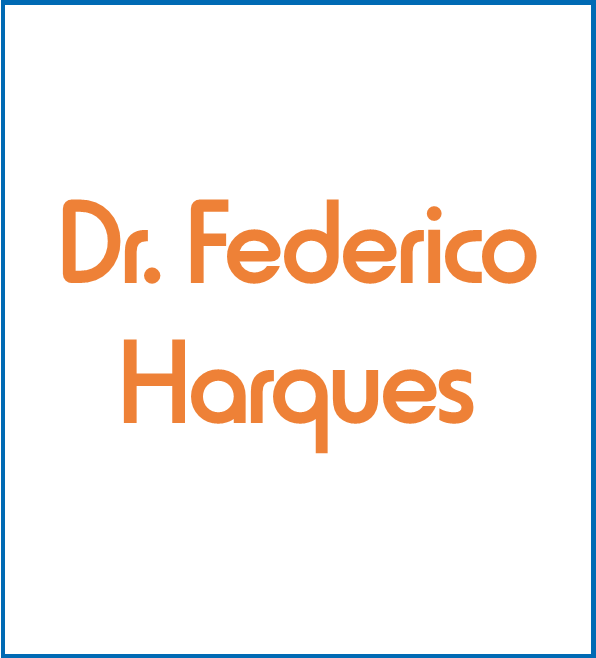
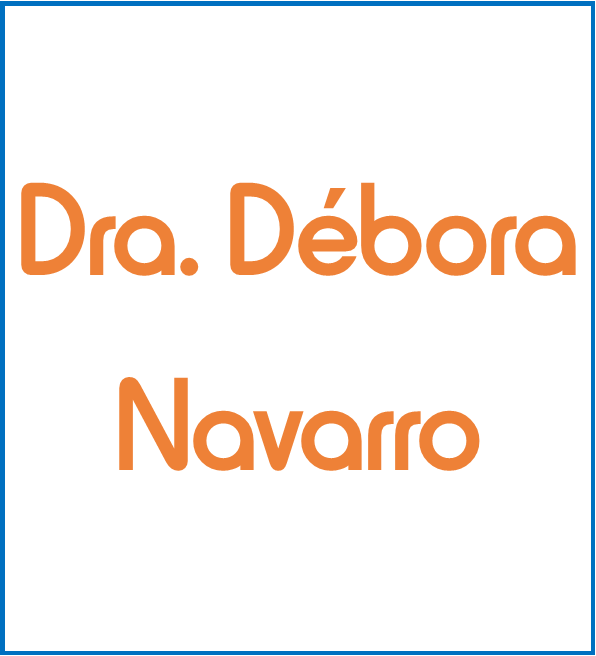
Version 1.3

diff --git a/assets/pages/agendas.html b/assets/pages/agendas.html
@@ -64,7 +64,7 @@
                             <li><a class="dropdown-item"
                                     href="https://docs.google.com/spreadsheets/d/1e_ewLIDzdWNhpK-zfxd9jDhe88WVcHc_/edit#gid=2119395061">Dr.
                                     Diego Rivarola</a></li>
-                            <li><a class="dropdown-item" href="https://docs.google.com/spreadsheets/d/1fyCxyzqEK8so8DjmL1KmKRUP886XDKE-/edit#gid=753543205">Dr. Federico Harkes</a></li>
+                            <li><a class="dropdown-item" href="https://docs.google.com/spreadsheets/d/1fyCxyzqEK8so8DjmL1KmKRUP886XDKE-/edit#gid=753543205">Dr. Debora Navarro</a></li>
                         </ul>
                     </li>
                 </ul>
@@ -93,7 +93,7 @@
                     <div class="card">
                         <img src="../images/harques.png" class="card-img-top" alt="...">
                         <div class="card-body">
-                            <h5 class="card-title">Dr. Federico Harkes</h5>
+                            <h5 class="card-title">Dr. Debora Navarro</h5>
                             <p class="card-text">Medico generalista. Valor consulta $7000. Solo se puede ingresar con
                                 autorización de acceso.</p>
                             <a href="https://docs.google.com/spreadsheets/d/1fyCxyzqEK8so8DjmL1KmKRUP886XDKE-/edit#gid=753543205" class="btn btn-primary">Ir a la agenda</a>

diff --git a/index.html b/index.html
@@ -64,7 +64,7 @@
                             <li><a class="dropdown-item"
                                     href="https://docs.google.com/spreadsheets/d/1e_ewLIDzdWNhpK-zfxd9jDhe88WVcHc_/edit#gid=2119395061">Dr.
                                     Diego Rivarola</a></li>
-                            <li><a class="dropdown-item" href="https://docs.google.com/spreadsheets/d/1fyCxyzqEK8so8DjmL1KmKRUP886XDKE-/edit#gid=753543205">Dr. Federico Harkes</a></li>
+                            <li><a class="dropdown-item" href="https://docs.google.com/spreadsheets/d/1fyCxyzqEK8so8DjmL1KmKRUP886XDKE-/edit#gid=753543205">Dr. Debora Navarro</a></li>
                         </ul>
                     </li>
                 </ul>
@@ -105,7 +105,7 @@
                         <img src="./assets/images/calendario.png" class="card-img-top" alt="...">
                         <div class="card-body">
                             <h5 class="card-title">Agendas Doctores</h5>
-                            <p class="card-text">Agendas del Dr. Rivarola y el Dr. Harkes. Para acceder a los archivos
+                            <p class="card-text">Agendas del Dr. Rivarola y el Dr. Navarro. Para acceder a los archivos
                                 deberas contar con permisos de acceso.</p>
                             <a href="./assets/pages/agendas.html" class="btn btn-primary">Elegir profesional</a>
                         </div>

diff --git a/assets/pages/transportes.html b/assets/pages/transportes.html
@@ -54,7 +54,7 @@
                         </a>
                         <ul class="dropdown-menu">
                             <li><a class="dropdown-item" href="https://docs.google.com/spreadsheets/d/1e_ewLIDzdWNhpK-zfxd9jDhe88WVcHc_/edit#gid=2119395061">Dr. Diego Rivarola</a></li>
-                            <li><a class="dropdown-item" href="https://docs.google.com/spreadsheets/d/1fyCxyzqEK8so8DjmL1KmKRUP886XDKE-/edit?usp=sharing&ouid=102450820102267783644&rtpof=true&sd=true">Dr. Federico Harkes</a></li>
+                            <li><a class="dropdown-item" href="https://docs.google.com/spreadsheets/d/1fyCxyzqEK8so8DjmL1KmKRUP886XDKE-/edit?usp=sharing&ouid=102450820102267783644&rtpof=true&sd=true">Dr. Debora Navarro</a></li>
                         </ul>
                     </li>
                 </ul>

diff --git a/assets/pages/transportesCOL.html b/assets/pages/transportesCOL.html
@@ -64,7 +64,7 @@
                             <li><a class="dropdown-item"
                                     href="https://docs.google.com/spreadsheets/d/1e_ewLIDzdWNhpK-zfxd9jDhe88WVcHc_/edit#gid=2119395061">Dr.
                                     Diego Rivarola</a></li>
-                            <li><a class="dropdown-item" href="https://docs.google.com/spreadsheets/d/1fyCxyzqEK8so8DjmL1KmKRUP886XDKE-/edit?usp=sharing&ouid=102450820102267783644&rtpof=true&sd=true">Dr. Federico Harkes</a></li>
+                            <li><a class="dropdown-item" href="https://docs.google.com/spreadsheets/d/1fyCxyzqEK8so8DjmL1KmKRUP886XDKE-/edit?usp=sharing&ouid=102450820102267783644&rtpof=true&sd=true">Dr. Federico Navarro</a></li>
                         </ul>
                     </li>
                 </ul>

diff --git a/assets/pages/transportesCD.html b/assets/pages/transportesCD.html
@@ -64,7 +64,7 @@
                             <li><a class="dropdown-item"
                                     href="https://docs.google.com/spreadsheets/d/1e_ewLIDzdWNhpK-zfxd9jDhe88WVcHc_/edit#gid=2119395061">Dr.
                                     Diego Rivarola</a></li>
-                            <li><a class="dropdown-item" href="https://docs.google.com/spreadsheets/d/1fyCxyzqEK8so8DjmL1KmKRUP886XDKE-/edit?usp=sharing&ouid=102450820102267783644&rtpof=true&sd=true">Dr. Federico Harkes</a></li>
+                            <li><a class="dropdown-item" href="https://docs.google.com/spreadsheets/d/1fyCxyzqEK8so8DjmL1KmKRUP886XDKE-/edit?usp=sharing&ouid=102450820102267783644&rtpof=true&sd=true">Dr. Debora Navarro</a></li>
                         </ul>
                     </li>
                 </ul>

diff --git a/assets/pages/transportesEFI.html b/assets/pages/transportesEFI.html
@@ -64,7 +64,7 @@
                             <li><a class="dropdown-item"
                                     href="https://docs.google.com/spreadsheets/d/1e_ewLIDzdWNhpK-zfxd9jDhe88WVcHc_/edit#gid=2119395061">Dr.
                                     Diego Rivarola</a></li>
-                            <li><a class="dropdown-item" href="https://docs.google.com/spreadsheets/d/1fyCxyzqEK8so8DjmL1KmKRUP886XDKE-/edit?usp=sharing&ouid=102450820102267783644&rtpof=true&sd=true">Dr. Federico Harkes</a></li>
+                            <li><a class="dropdown-item" href="https://docs.google.com/spreadsheets/d/1fyCxyzqEK8so8DjmL1KmKRUP886XDKE-/edit?usp=sharing&ouid=102450820102267783644&rtpof=true&sd=true">Dr. Debora Navarro</a></li>
                         </ul>
                     </li>
                 </ul>

diff --git a/assets/pages/transportesEscuela.html b/assets/pages/transportesEscuela.html
@@ -64,7 +64,7 @@
                             <li><a class="dropdown-item"
                                     href="https://docs.google.com/spreadsheets/d/1e_ewLIDzdWNhpK-zfxd9jDhe88WVcHc_/edit#gid=2119395061">Dr.
                                     Diego Rivarola</a></li>
-                            <li><a class="dropdown-item" href="https://docs.google.com/spreadsheets/d/1fyCxyzqEK8so8DjmL1KmKRUP886XDKE-/edit?usp=sharing&ouid=102450820102267783644&rtpof=true&sd=true">Dr. Federico Harkes</a></li>
+                            <li><a class="dropdown-item" href="https://docs.google.com/spreadsheets/d/1fyCxyzqEK8so8DjmL1KmKRUP886XDKE-/edit?usp=sharing&ouid=102450820102267783644&rtpof=true&sd=true">Dr. Debora Navarro</a></li>
                         </ul>
                     </li>
                 </ul>

diff --git a/assets/pages/lista-espera.html b/assets/pages/lista-espera.html
@@ -64,7 +64,7 @@
                             <li><a class="dropdown-item"
                                     href="https://docs.google.com/spreadsheets/d/1e_ewLIDzdWNhpK-zfxd9jDhe88WVcHc_/edit#gid=2119395061">Dr.
                                     Diego Rivarola</a></li>
-                            <li><a class="dropdown-item" href="https://docs.google.com/spreadsheets/d/1fyCxyzqEK8so8DjmL1KmKRUP886XDKE-/edit#gid=753543205">Dr. Federico Harkes</a></li>
+                            <li><a class="dropdown-item" href="https://docs.google.com/spreadsheets/d/1fyCxyzqEK8so8DjmL1KmKRUP886XDKE-/edit#gid=753543205">Dr. Debora Navarro</a></li>
                         </ul>
                     </li>
                 </ul>
